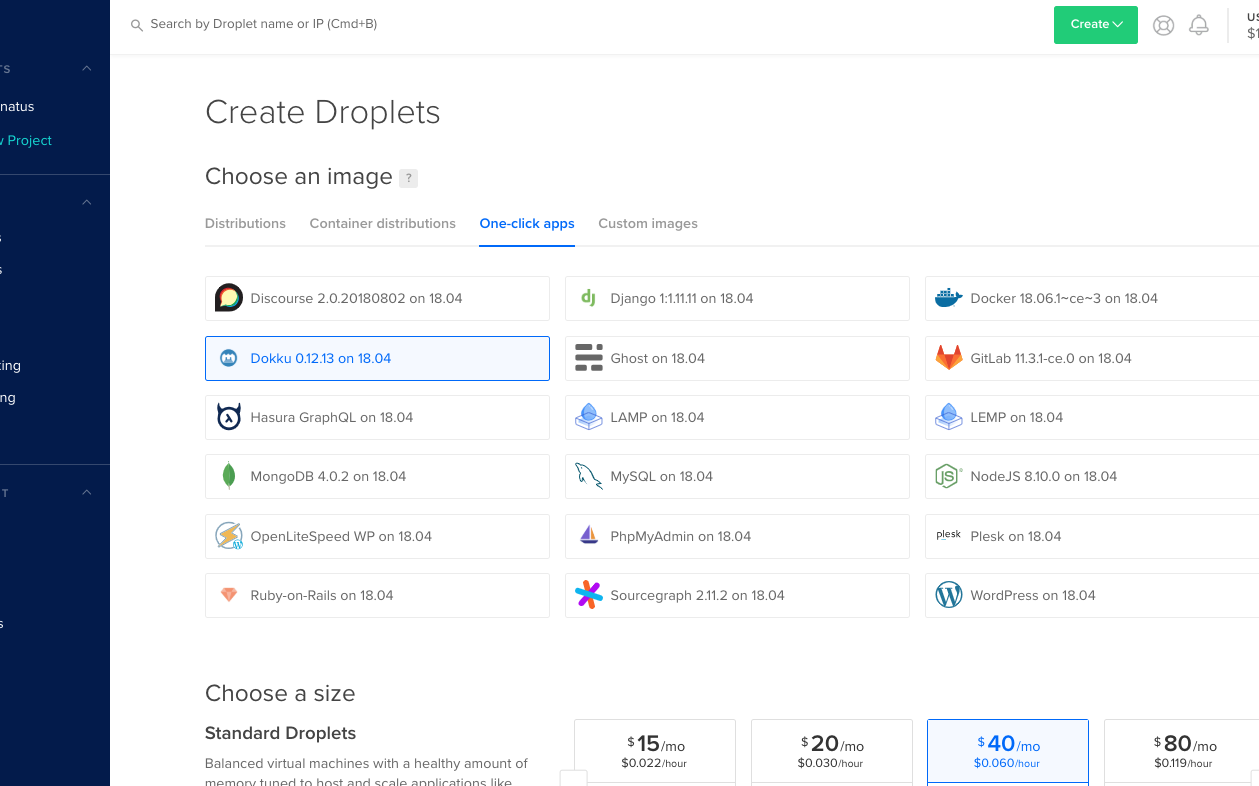
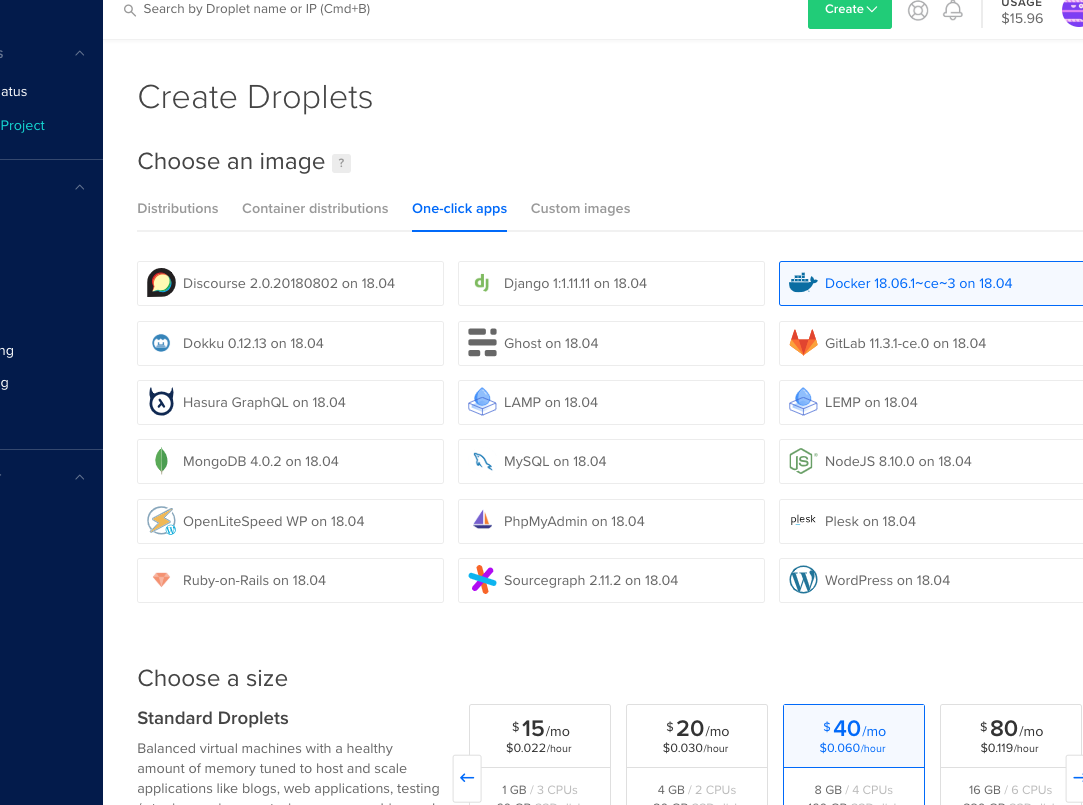
fixed image links and added narrative text

diff --git a/README.md b/README.md
@@ -1,19 +1,24 @@
+This is a walkthrough of how to get started with Selenium Grid. In doing so we will be setting up Docker on Digital Ocean to keep it simple and relevent. Then we will set up the grid and show you how to use it and scale it up for further simultaneous testing.
 
 **Why use Selenium Grid**
-To take Selenium testing forward at some point, especially with a large suite of tests built up, the point comes where it is wise to adopt the practice of parallelization. To achieve this we turn to Selenium-Grid …
+To take Selenium testing forward, especially with a large suite of tests built up, the point comes where it is wise to adopt the practice of parallelization - running multiple test cases simultaneously to achieve this we turn to Selenium-Grid. 
 
-- Why Docker
-A good way of setting up Selenium-Grid is by using Docker. With Docker it is easy to setup and deploy containers which makes brings with it many advantages, primarily that it is easy to scale up and …
+With this we are able to easily scale up our testing as the tests themselves do not need to be rewriten, the key change will be to just change the designated webdriver to the new one. 
+
+**Docker**
+A good way of setting up Selenium-Grid is by using Docker. With Docker it is easy to setup and deploy containers which makes brings with it many advantages, primarily that it is easy to scale up and to replicate across teams with ease. Following the instructions below will work every time in the same way, avoiding any hasstle with setting up multiple VPS's as our nodes. 
 
 
-- Get starting with Digital Ocean
+**Get starting with Digital Ocean**
 An easy way to get start with a hosted solution is to use a service like Digital Ocean.
 
 A benefit of using Digital Ocean is that it is possible to make use of the 'One-click apps', from here it possible to spin up a Docker instance in a Ubuntu VPS(Droplet). 
-![img1] (https://github.com/john-lock/selenium-grid/images/img1.png)
+![IMG1](https://github.com/john-lock/SeleniumGrid/blob/master/images/img1.png)
 
 Once successful we should see something like this when we look at the details of the instance:
-img2
+![IMG2](https://github.com/john-lock/SeleniumGrid/blob/master/images/img2.png)
+
+Note; I recommend starting out on the smallest droplet size to get things going initially, later it is possible to scale up the resources depending on work done. Scaling down resources is however not quite so straightforward as users cannot downscale to droplets with smaller storage capacities. 
 
 
 # Create the Selenium Hub 
@@ -46,13 +51,13 @@ This will setup our Hub along with both a Firefox and Chrome nodes. To start the
 The images will then be downloaded each of the 3 containers (1 Hub and 2 Nodes). Once this is complete you can verify this with `docker ps`
 
 Now it is possible to see the Grid in the browser by going to `<VPS ip>:4444/grid/console` where you should see something like this:
-img3
+![IMG3](https://github.com/john-lock/SeleniumGrid/blob/master/images/img3.png)
 
 # Scale up a node
 To run multiple tests in parallel on a node, the node will need to be scaled up. This can be used to further reduce the time taken to run a suite of tests. To do this is simple using the following command:
 `docker-compose up -d --scale nodeffox=2`
 Once this is run you will see the upscaled nodes in /grid/console:
-img4
+![IMG4](https://github.com/john-lock/SeleniumGrid/blob/master/images/img4.png)
 
 # Connect to/Use in a practical example
 We are now all set to put this new Grid to use. When using Selenium(Python) we must declare our webdriver, in a simple example with Pythons built in Unittest module this might be in the form of:
@@ -78,8 +83,9 @@ class ImportantFeatureTest(unittest.TestCase):
 ```
 You can now use the Grid as you would a standard Selenium driver but enjoy the cross browser options and better performance!
 
-
 # Conclusion 
-Next steps:
-- VNC
-- Docker Swarm
+Hopefully this has been useful to demonstrate how to get going with Selenium Grid. From experience I know that the switch to parallel testing can be a big one which discourages many. However using Docker in this way make this very straightforward to get going in a way you will feel comfortable with even if without experience using Docker before.
+
+Next steps which I hope to add here:
+- How to watch your tests being carried out, and take screenshots on failure, with VNC. 
+- To scale up even further, we can utilize Docker Swarm by deploying our Grid across multiple machines as a cluster.
